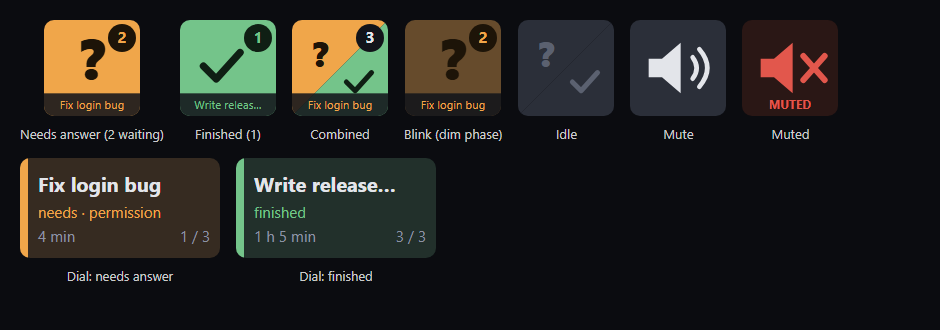
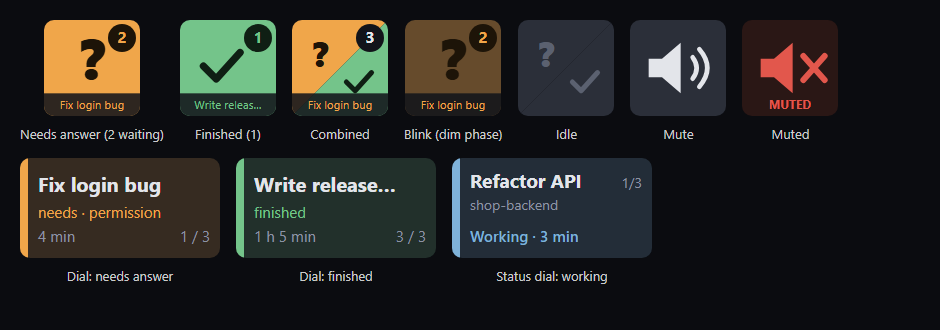
Add Session status dial; idle state for sessions with nothing running
Session status dial (Stream Deck +): every busy session, working, needs
answer or finished and not seen, most recent change first, with title,
folder, state and time; turn to switch, press or tap to open.

The mod no longer reports a session as working when it opens or after an
interrupted turn: a new "idle" state, which the plugin never shows.
Version 0.2.0.

Changed region(s): [[0.4628, 0.4545, 0.7096, 0.7879], [0.5245, 0.8182, 0.6479, 0.8788]]

diff --git a/streamdeck/src/hub.ts b/streamdeck/src/hub.ts
@@ -6,13 +6,13 @@ import { type Chime, play, soundFile, warmUp } from "./sound/player";
 import { desktopInfo } from "./store/desktop";
 import { loadMemory, memory, saveMemory, silenced } from "./store/memory";
 import { readStates, watchStates } from "./store/states";
-import type { ComboSettings, Item, Kind, KeySettings, SessionState } from "./types";
+import type { BusyItem, ComboSettings, Item, Kind, KeySettings, SessionState } from "./types";
 
 // The plugin's one source of truth: the waiting sessions in two queues, which
 // keys are on screen with which settings, the blink phase, presses, and the
 // sounds. Actions draw from it and tell it what was pressed.
 
-export type ActionType = "needs" | "finished" | "combined" | "mute" | "browser";
+export type ActionType = "needs" | "finished" | "combined" | "mute" | "browser" | "status";
 type Visible = { type: ActionType; settings: Record<string, unknown> };
 
 const BLINK_MS = 500;
@@ -28,21 +28,30 @@ function alive(pid: number | null): boolean {
 	}
 }
 
-/** The waiting item a state file stands for, or null when nothing waits or it should be dropped. */
-function toItem(s: SessionState): Item | null {
-	if (s.state === "working") return null;
-	if (memory.seen[s.id] === s.since) return null;
-	// Nothing can still be asking once its process is gone; a finished task stays until seen.
-	if (s.state === "needs" && (s.ended || !alive(s.pid))) return null;
+/**
+ * The busy session a state file stands for, or null when it should be dropped:
+ * idle, seen, archived or gone from the Desktop app, or (working and needs alike)
+ * its process ended. A finished task stays until seen, its process or not.
+ */
+function toBusy(s: SessionState): BusyItem | null {
+	if (s.state === "idle" || memory.seen[s.id] === s.since) return null;
+	if (s.state !== "finished" && (s.ended || !alive(s.pid))) return null;
 	const info = desktopInfo(s.id);
 	if (info === "missing" || (info !== "unknown" && info.archived)) return null;
-	const title = (info !== "unknown" && info.title) || path.basename(s.cwd) || "Claude";
-	return { id: s.id, kind: s.state, needsKind: s.kind, since: s.since, title };
+	const folder = path.basename(s.cwd);
+	const title = (info !== "unknown" && info.title) || folder || "Claude";
+	return { id: s.id, status: s.state, needsKind: s.kind, since: s.since, title, folder };
 }
+
+/** The waiting item (needs answer or finished) a busy session stands for. */
+const toItem = (b: BusyItem): Item | null =>
+	b.status === "working" ? null : { id: b.id, kind: b.status, needsKind: b.needsKind, since: b.since, title: b.title };
 
 class Hub {
 	needs: Item[] = [];
 	finished: Item[] = [];
+	/** Every busy session (working, needs answer, finished and not seen), most recent change first. */
+	busy: BusyItem[] = [];
 	/** Bright or dim half of the blink. */
 	bright = true;
 
@@ -84,7 +93,11 @@ class Hub {
 	/** Reads the state files again, chimes for new waiting states, redraws. */
 	refresh(): void {
 		const states = readStates();
-		const items = states.map(toItem).filter((i): i is Item => i !== null);
+		this.busy = states
+			.map(toBusy)
+			.filter((b): b is BusyItem => b !== null)
+			.sort((a, b) => b.since - a.since);
+		const items = this.busy.map(toItem).filter((i): i is Item => i !== null);
 		const bySince = (a: Item, b: Item) => a.since - b.since;
 		this.needs = items.filter((i) => i.kind === "needs").sort(bySince);
 		this.finished = items.filter((i) => i.kind === "finished").sort(bySince);
@@ -150,8 +163,14 @@ class Hub {
 		if (item?.kind === "finished") this.markSeen([item]);
 	}
 
+	/** Opens a busy session (the status dial's selection); a finished one counts as seen. */
+	openBusy(item: BusyItem | null): void {
+		openSession(item?.id ?? null);
+		if (item?.status === "finished") this.markSeen([item]);
+	}
+
 	/** Hides these items until their session changes state again. */
-	markSeen(items: Item[]): void {
+	markSeen(items: { id: string; since: number }[]): void {
 		if (items.length === 0) return;
 		for (const i of items) memory.seen[i.id] = i.since;
 		saveMemory();

diff --git a/streamdeck/src/render/dial.ts b/streamdeck/src/render/dial.ts
@@ -1,4 +1,4 @@
-import type { Item } from "../types";
+import type { BusyItem, Item } from "../types";
 import { COLORS, cut, esc, svgUrl } from "./key";
 
 // The Stream Deck + touch strip above one dial (200×100): the selected waiting
@@ -12,6 +12,15 @@ const KIND_LABEL: Record<string, string> = {
 	plan: "plan approval",
 	form: "form",
 	ask: "question",
+};
+
+/** How the status dial names each kind of waiting. */
+const NEEDS_LABEL: Record<string, string> = {
+	permission: "Needs approval",
+	question: "Asking you",
+	plan: "Plan to approve",
+	form: "Needs input",
+	ask: "Asking you",
 };
 
 export function age(since: number, now = Date.now()): string {
@@ -35,6 +44,26 @@ export function dialImage(item: Item | null, index: number, total: number, brigh
 		parts.push(`<text x="18" y="60" font-family="${FONT}" font-size="15" fill="${color}">${esc(what)}</text>`);
 		parts.push(`<text x="18" y="84" font-family="${FONT}" font-size="15" fill="${COLORS.muted}">${age(item.since)}</text>`);
 		parts.push(`<text x="190" y="84" text-anchor="end" font-family="${FONT}" font-size="15" fill="${COLORS.muted}">${index + 1} / ${total}</text>`);
+	}
+	return svgUrl(`<svg xmlns="http://www.w3.org/2000/svg" width="200" height="100" viewBox="0 0 200 100">${parts.join("")}</svg>`);
+}
+
+/** The status dial: one busy session's title, folder, state and time in it; only needs answer blinks. */
+export function statusImage(item: BusyItem | null, index: number, total: number, bright: boolean): string {
+	const parts = [`<rect width="200" height="100" fill="${COLORS.bg}"/>`];
+	if (!item) {
+		parts.push(`<text x="100" y="58" text-anchor="middle" font-family="${FONT}" font-size="20" fill="${COLORS.idleInk}">No busy sessions</text>`);
+	} else {
+		const color = item.status === "needs" ? COLORS.needs : item.status === "finished" ? COLORS.finished : COLORS.working;
+		const state =
+			item.status === "needs" ? (NEEDS_LABEL[item.needsKind ?? "permission"] ?? "Needs you") : item.status === "finished" ? "Finished" : "Working";
+		const lit = item.status !== "needs" || bright;
+		parts.push(`<rect width="200" height="100" fill="${color}" opacity="${lit ? 0.16 : 0.05}"/>`);
+		parts.push(`<rect width="8" height="100" fill="${color}" opacity="${lit ? 1 : 0.45}"/>`);
+		parts.push(`<text x="18" y="30" font-family="${FONT}" font-weight="700" font-size="19" fill="${COLORS.text}">${esc(cut(item.title, 13))}</text>`);
+		parts.push(`<text x="18" y="52" font-family="${FONT}" font-size="14" fill="${COLORS.muted}">${esc(cut(item.folder, 22))}</text>`);
+		parts.push(`<text x="18" y="84" font-family="${FONT}" font-weight="600" font-size="15" fill="${color}">${esc(`${state} · ${age(item.since)}`)}</text>`);
+		parts.push(`<text x="190" y="30" text-anchor="end" font-family="${FONT}" font-size="14" fill="${COLORS.muted}">${index + 1}/${total}</text>`);
 	}
 	return svgUrl(`<svg xmlns="http://www.w3.org/2000/svg" width="200" height="100" viewBox="0 0 200 100">${parts.join("")}</svg>`);
 }

diff --git a/streamdeck/src/actions/status-dial.ts b/streamdeck/src/actions/status-dial.ts
@@ -1,0 +1,84 @@
+import {
+	action,
+	type DialDownEvent,
+	type DialRotateEvent,
+	SingletonAction,
+	type TouchTapEvent,
+	type WillAppearEvent,
+	type WillDisappearEvent,
+} from "@elgato/streamdeck";
+import type { JsonObject } from "@elgato/utils";
+
+import { hub } from "../hub";
+import { statusImage } from "../render/dial";
+import type { BusyItem } from "../types";
+
+// Session status (Stream Deck + dial): every busy session (working, needs
+// answer, finished and not seen), most recent change first, with its state and
+// how long it has been in it. Turn to switch, press or tap to open. No sounds.
+
+@action({ UUID: "com.mctonnie.claude-notify.status" })
+export class StatusDial extends SingletonAction<JsonObject> {
+	/** The session each dial shows, by id, so it stays put while the order changes. */
+	private selected = new Map<string, string>();
+	private lastIndex = new Map<string, number>();
+	private drawn = new Map<string, string>();
+
+	constructor() {
+		super();
+		hub.onDraw(() => this.drawAll());
+		// The time line moves on with the clock, and working sessions don't blink.
+		setInterval(() => this.drawAll(), 30_000);
+	}
+
+	/** The selection: the same session if it is still busy, else the one now at its old place. */
+	private pick(id: string): { item: BusyItem | null; index: number; total: number } {
+		const list = hub.busy;
+		if (list.length === 0) return { item: null, index: 0, total: 0 };
+		let index = list.findIndex((b) => b.id === this.selected.get(id));
+		if (index < 0) index = Math.min(this.lastIndex.get(id) ?? 0, list.length - 1);
+		const item = list[index]!;
+		this.selected.set(id, item.id);
+		this.lastIndex.set(id, index);
+		return { item, index, total: list.length };
+	}
+
+	private drawAll(): void {
+		this.actions.forEach((a) => {
+			if (!a.isDial()) return;
+			const { item, index, total } = this.pick(a.id);
+			const canvas = statusImage(item, index, total, hub.bright);
+			if (this.drawn.get(a.id) === canvas) return;
+			this.drawn.set(a.id, canvas);
+			void a.setFeedback({ canvas });
+		});
+	}
+
+	override onWillAppear(ev: WillAppearEvent<JsonObject>): void {
+		this.drawn.delete(ev.action.id);
+		this.drawAll();
+	}
+
+	override onWillDisappear(ev: WillDisappearEvent<JsonObject>): void {
+		this.drawn.delete(ev.action.id);
+	}
+
+	override onDialRotate(ev: DialRotateEvent<JsonObject>): void {
+		const list = hub.busy;
+		if (list.length === 0) return;
+		const { index } = this.pick(ev.action.id);
+		const to = (((index + ev.payload.ticks) % list.length) + list.length) % list.length;
+		this.selected.set(ev.action.id, list[to]!.id);
+		this.lastIndex.set(ev.action.id, to);
+		this.drawAll();
+	}
+
+	override onDialDown(ev: DialDownEvent<JsonObject>): void {
+		hub.openBusy(this.pick(ev.action.id).item);
+	}
+
+	override onTouchTap(ev: TouchTapEvent<JsonObject>): void {
+		if (ev.payload.hold) return;
+		hub.openBusy(this.pick(ev.action.id).item);
+	}
+}

diff --git a/mod/hooks/features/streamdeck.ts b/mod/hooks/features/streamdeck.ts
@@ -92,7 +92,7 @@ async function ownPid($: EngineInterface): Promise<number | null> {
   }
 }
 
-/** A new or resumed session: keep what the file says (a finished task stays finished), else working. */
+/** A new or resumed session: keep what the file says (a finished task stays finished), else idle. */
 export async function streamdeckStart($: EngineInterface): Promise<void> {
   const file = await fileOf($)
   if (!file) return
@@ -110,7 +110,7 @@ export async function streamdeckStart($: EngineInterface): Promise<void> {
     await update($, sd, () => ({ ...kept, ended: true }))
     await setState($, 'finished', null, false)
   } else {
-    await setState($, 'working')
+    await setState($, 'idle')
   }
 }
 
@@ -154,6 +154,12 @@ export async function streamdeckStop($: EngineInterface, tasks: BgTask[]): Promi
   if (work.length > 0) return setState($, 'working', null, false, work.map(t => `${t.type} ${t.status}: ${t.description.slice(0, 80)}`))
   if (await read($, asked)) return setState($, 'needs', 'ask')
   await setState($, 'finished')
+}
+
+/** A turn that was interrupted, refused or died on an error: no Stop follows, and nothing runs any more. */
+export async function streamdeckTurnDone($: EngineInterface, reason: string): Promise<void> {
+  if (reason === 'answer') return
+  if ((await read($, sd))?.state === 'working') await setState($, 'idle')
 }
 
 export async function streamdeckEnd($: EngineInterface): Promise<void> {

diff --git a/streamdeck/src/types.ts b/streamdeck/src/types.ts
@@ -5,7 +5,8 @@ export type SessionState = {
 	cliId: string;
 	pid: number | null;
 	cwd: string;
-	state: "working" | "needs" | "finished";
+	/** idle: open with no turn running (never shown); working: a turn or its background work runs. */
+	state: "idle" | "working" | "needs" | "finished";
 	kind: NeedsKind | null;
 	since: number;
 	ended: boolean;
@@ -24,6 +25,17 @@ export type Item = {
 	needsKind: NeedsKind | null;
 	since: number;
 	title: string;
+};
+
+/** One busy session, as the status dial shows it: working, needs answer, or finished and not seen. */
+export type BusyItem = {
+	id: string;
+	status: "working" | Kind;
+	needsKind: NeedsKind | null;
+	since: number;
+	title: string;
+	/** The project folder's name. */
+	folder: string;
 };
 
 /** Settings of the Needs answer and Finished keys. */

diff --git a/mod/hooks/features/index.ts b/mod/hooks/features/index.ts
@@ -10,6 +10,7 @@ import {
   streamdeckPermission,
   streamdeckStart,
   streamdeckStop,
+  streamdeckTurnDone,
   streamdeckTurnStart,
 } from './streamdeck'
 import type { BgTask } from './streamdeck'
@@ -43,7 +44,10 @@ export async function featuresTurnStart($: EngineInterface): Promise<void> {
   await streamdeckTurnStart($)
 }
 
-export async function featuresTurnDone(_$: EngineInterface): Promise<void> {}
+/** The main loop's turn ended; `reason` is how (answer, aborted, refusal, error). */
+export async function featuresTurnDone($: EngineInterface, reason: string): Promise<void> {
+  await streamdeckTurnDone($, reason)
+}
 
 /** A permission prompt (or a question asked through one) waits on the user. */
 export async function featuresPermission($: EngineInterface, toolName: string): Promise<void> {

diff --git a/streamdeck/src/plugin.ts b/streamdeck/src/plugin.ts
@@ -2,6 +2,7 @@ import streamDeck from "@elgato/streamdeck";
 
 import { BrowserDial } from "./actions/browser-dial";
 import { MuteKey } from "./actions/mute";
+import { StatusDial } from "./actions/status-dial";
 import { CombinedKey, FinishedKey, NeedsKey } from "./actions/waiting-key";
 import { hub } from "./hub";
 
@@ -15,6 +16,7 @@ streamDeck.actions.registerAction(new FinishedKey());
 streamDeck.actions.registerAction(new CombinedKey());
 streamDeck.actions.registerAction(new MuteKey());
 streamDeck.actions.registerAction(new BrowserDial());
+streamDeck.actions.registerAction(new StatusDial());
 
 // What the plugin process was started with, for diagnosing launches from it.
 streamDeck.logger.info(`env: SystemRoot=${process.env.SystemRoot ?? "-"} PATH=${(process.env.PATH ?? "-").slice(0, 120)}`);

diff --git a/streamdeck/src/store/states.ts b/streamdeck/src/store/states.ts
@@ -12,7 +12,7 @@ export const STATE_DIR = path.join(os.homedir(), ".claude", "streamdeck", "sessi
 const RESCAN_MS = 5_000;
 const DEBOUNCE_MS = 120;
 
-const STATES = new Set(["working", "needs", "finished"]);
+const STATES = new Set(["idle", "working", "needs", "finished"]);
 const KINDS = new Set([null, "permission", "question", "plan", "form", "ask"]);
 
 function parse(text: string): SessionState | null {

diff --git a/mod/types/index.d.ts b/mod/types/index.d.ts
@@ -9,7 +9,8 @@ export type SdState = {
   cliId: string
   pid: number | null
   cwd: string
-  state: 'working' | 'needs' | 'finished'
+  /** idle: open with no turn running; working: a turn or its background work runs. */
+  state: 'idle' | 'working' | 'needs' | 'finished'
   kind: 'permission' | 'question' | 'plan' | 'form' | 'ask' | null
   /** When this state (and kind) began, ms. */
   since: number

diff --git a/mod/hooks/register.tsx b/mod/hooks/register.tsx
@@ -53,7 +53,7 @@ export const register: Register = on => {
 
   on('turn.complete', async ($, e, next) => {
     const r = await next(e)
-    await featuresTurnDone($)
+    if (e.agentId === undefined) await featuresTurnDone($, e.reason)
     return r
   })
 

diff --git a/streamdeck/src/render/key.ts b/streamdeck/src/render/key.ts
@@ -10,6 +10,7 @@ export const COLORS = {
 	needsInk: "#1d1408",
 	finished: "#74c48a",
 	finishedInk: "#0f1f14",
+	working: "#7fb2d9",
 	idle: "#2b2f39",
 	idleInk: "#5b6170",
 	text: "#e3e5ea",

diff --git a/README.md b/README.md
@@ -18,6 +18,7 @@ It comes in two parts that work together:
 - **Combined** key: both in one, split diagonally. The amber half is for needs answer, the green half for finished.
 - **Mute** key: silences all sounds (keys keep blinking). Optional quiet hours.
 - **Session browser** dial (Stream Deck +): turn through every waiting session on the touch strip, showing title, kind and age.
+- **Session status** dial (Stream Deck +): see what every busy session is doing (blue *Working*, amber *Needs approval* / *Asking you*, green *Finished*), with its project folder and how long it's been in that state. The most recent change comes first; turn to switch.
 
 Every waiting key shows a **count badge** and the **title of the session** the next press opens. Each kind plays its own **chime** once when something new arrives, with optional reminders.
 
@@ -27,11 +28,16 @@ Every waiting key shows a **count badge** and the **title of the session** the n
 | Press with nothing waiting | Opens your most recent Claude session. |
 | Hold about 1 second | Dismisses everything on that key without opening anything. |
 
-| On the dial | What happens |
+| On the Session browser dial | What happens |
 | --- | --- |
 | Turn | Step through waiting sessions (needs answer first). |
 | Press or tap | Open the one shown. |
 | Long touch | Dismiss the one shown. |
+
+| On the Session status dial | What happens |
+| --- | --- |
+| Turn | Switch between busy sessions (working, needs answer, finished and not yet seen). |
+| Press or tap | Open the one shown. A finished one then counts as seen. |
 
 ## Requirements
 
@@ -89,7 +95,7 @@ claude plugin install mctonnie-mods@mctonnie
 
 **3. Start a new Claude Desktop session.** The mod loads when a session starts; sessions that were already open stay untracked until restarted.
 
-**4. Set up your deck.** In the Stream Deck app, find the **Claude Notify** category and drag *Needs answer*, *Finished*, *Combined*, *Mute* and *Session browser* (dial) where you want them.
+**4. Set up your deck.** In the Stream Deck app, find the **Claude Notify** category and drag *Needs answer*, *Finished*, *Combined*, *Mute*, *Session browser* and *Session status* (dials) where you want them.
 
 To test, ask the new session something that needs your approval: the Needs answer key should blink and chime.
 
